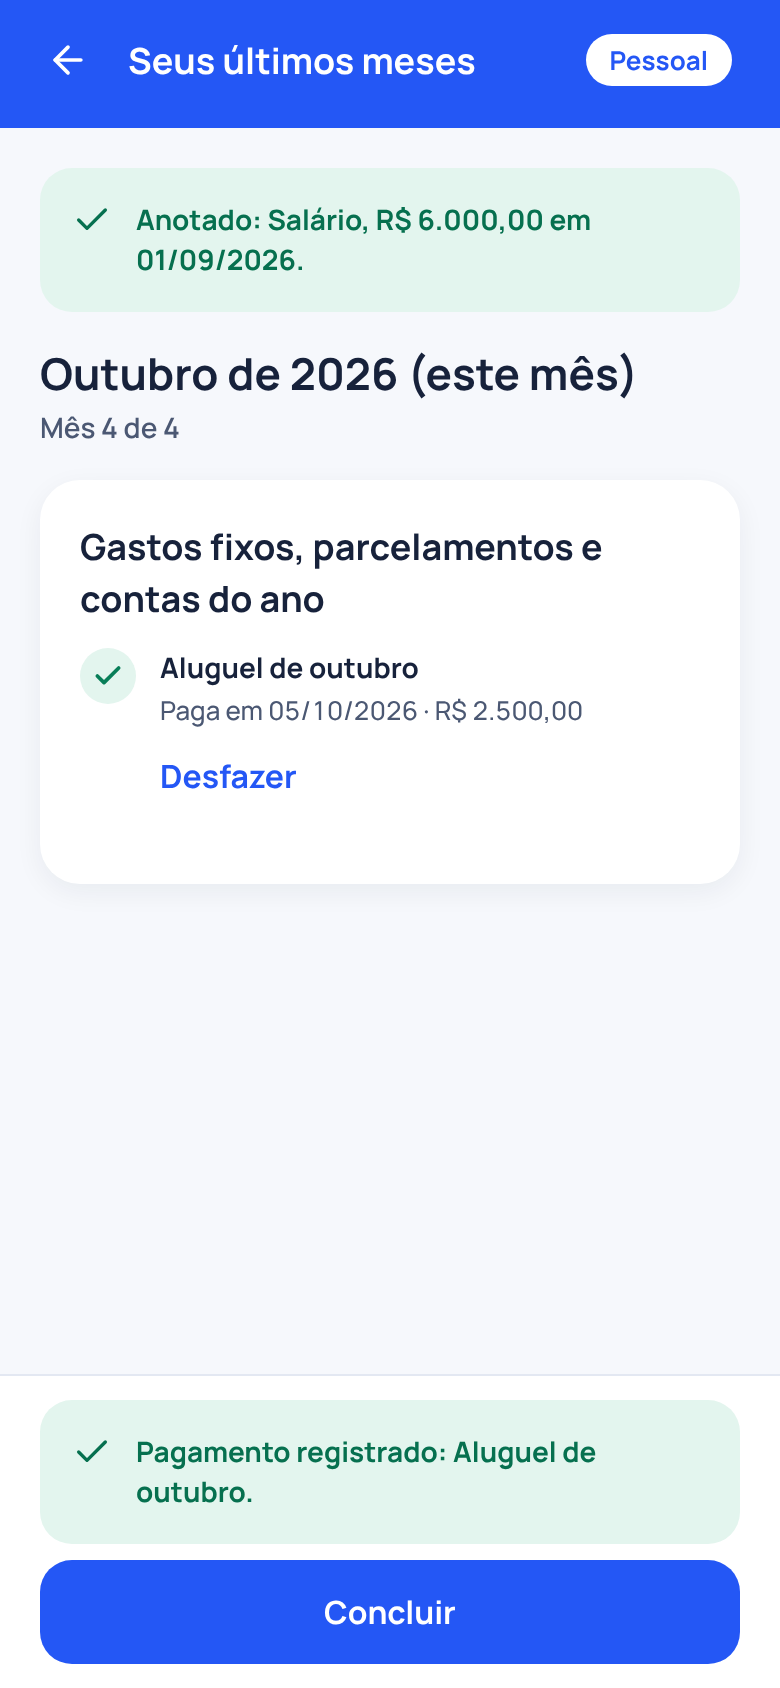
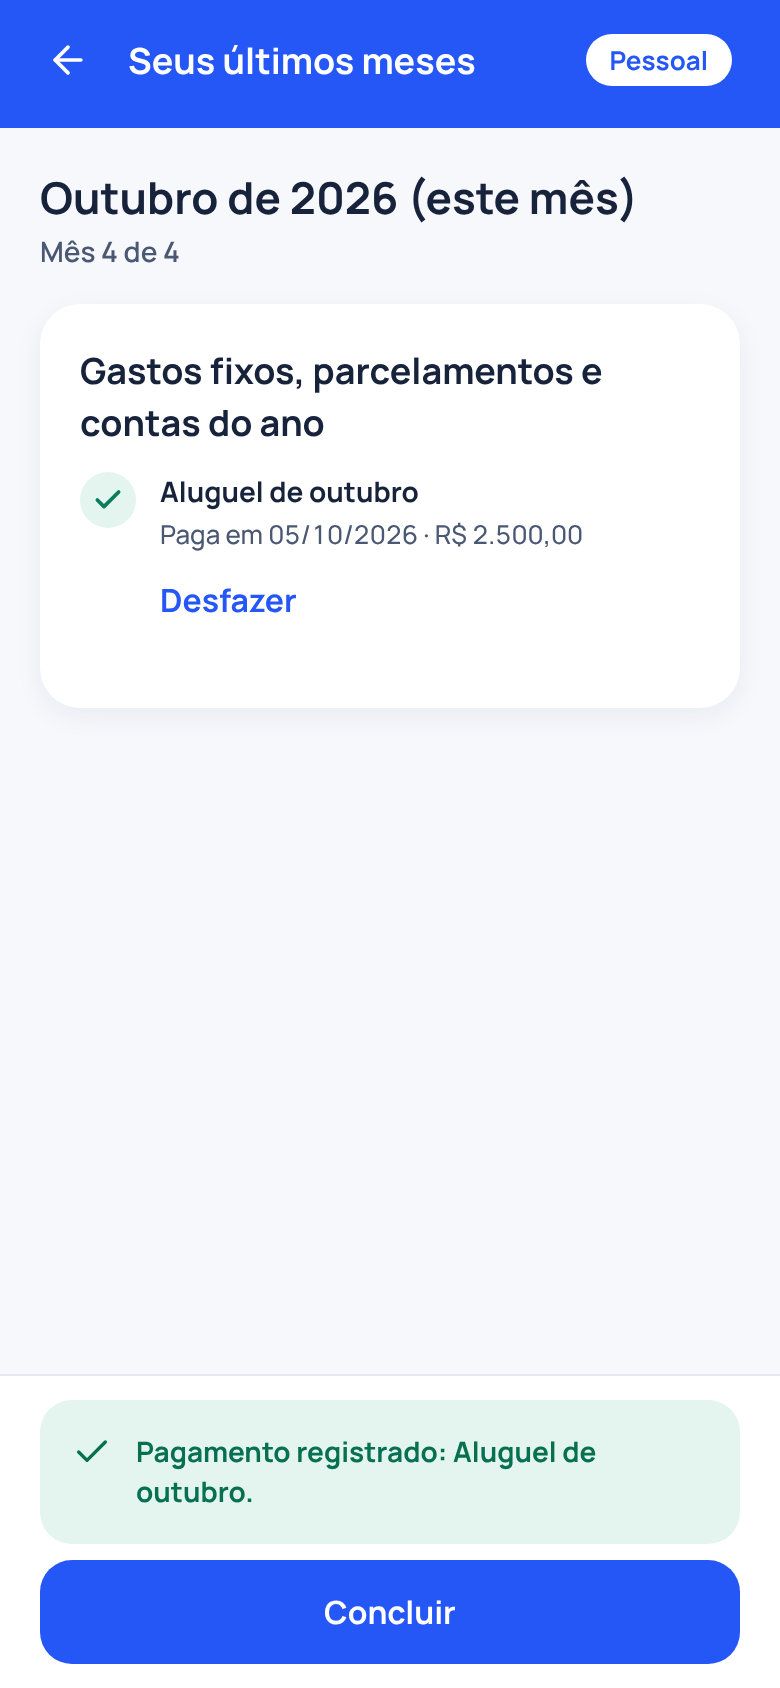
Seus últimos meses e Aprender (em andamento): ponto de controle
Claude-Session: https://claude.ai/code/session_01DJ8P9ioDFqVN7dR69gHQEe

Changed region(s): [[0.0308, 0.2156, 0.8308, 0.4621], [0.0308, 0.0924, 0.9231, 0.1848], [0.5538, 0.4005, 0.7385, 0.4313]]

diff --git a/scripts/e2e-web.js b/scripts/e2e-web.js
@@ -2105,6 +2105,7 @@ const ok = (name, cond, extra='') => { results.push([cond ? 'OK ' : 'FALHOU', na
   await shot('88_tema_taxa_mes_ano_fontes');
   await p.setViewportSize({ width: 320, height: 800 }); await p.waitForTimeout(400);
   await layoutChecks('tema taxa ao mês 320px');
+  await p.locator('h1').filter({ hasText: /^Taxa ao mês e taxa ao ano$/ }).first().evaluate((e) => e.scrollIntoView({ block: 'start' }));
   await shot('88_tema_taxa_mes_ano_320px');
   await p.setViewportSize({ width: 390, height: 844 }); await p.waitForTimeout(300);
   // Uma fonte abre o site numa janela nova; o app continua na explicação.
@@ -2610,6 +2611,7 @@ const ok = (name, cond, extra='') => { results.push([cond ? 'OK ' : 'FALHOU', na
   t = await body();
   ok('este mês: só a conta vencida antes de hoje (Aluguel de 05/10), sem recebimentos, e "Concluir"', (await stepTitle()) === 'Outubro de 2026 (este mês), Mês 4 de 4' &&
     t.includes('R$ 2.500,00 · venceu em 05/10/2026 · em aberto') && !t.includes('Recebimentos e gastos') && !t.includes('Luz') && (await visibleCount('button', 'Concluir')) === 1 && (await visibleCount('button', 'Concluir agora')) === 0, t.slice(0, 400));
+  ok('trocar de passo tira o aviso do passo anterior ("Anotado: Salário" de setembro)', !t.includes('Anotado: Salário'));
   await btn('Já paguei: Aluguel de outubro').click(); await waitText('Marcar como paga?');
   ok('"Já paguei" de valor fixo: confirmação com o valor, o vencimento e a conta', (await dialogText()).includes('Aluguel de outubro: R$ 2.500,00 em 05/10/2026, da conta Conta principal.') &&
     (await p.getByRole('dialog').or(p.getByRole('alert')).getByRole('button', { name: 'Mudar valor ou data', exact: true }).count()) === 1);

diff --git a/apps/app/src/app/retomar/atualizar.tsx b/apps/app/src/app/retomar/atualizar.tsx
@@ -107,7 +107,7 @@ export default function AtualizarMeses() {
   const query = useReturnReview(ctx);
   const seriesList = useSeriesList(ctx);
   const writer = useReturnWriter();
-  const [notice] = useFlash();
+  const [notice, setNotice] = useFlash();
   const review = query.data?.review ?? null;
 
   const [session, setSession] = useState<Session | null>(null);
@@ -341,6 +341,8 @@ export default function AtualizarMeses() {
   const goTo = (i: number) => {
     setSelected([]);
     setResult(null);
+    // O aviso da tela anterior ("Anotado: ...") é do passo que ficou para trás.
+    setNotice(null);
     setIndex(i);
   };
 
